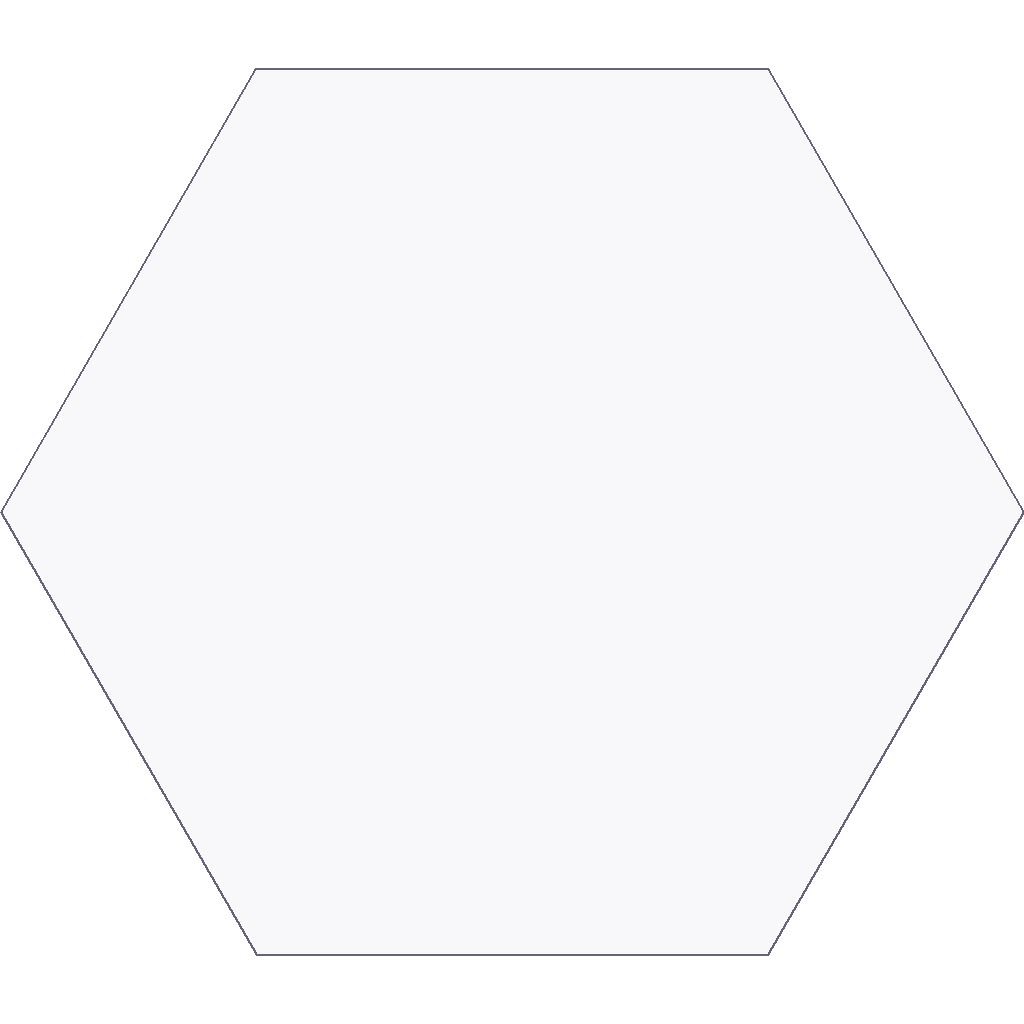
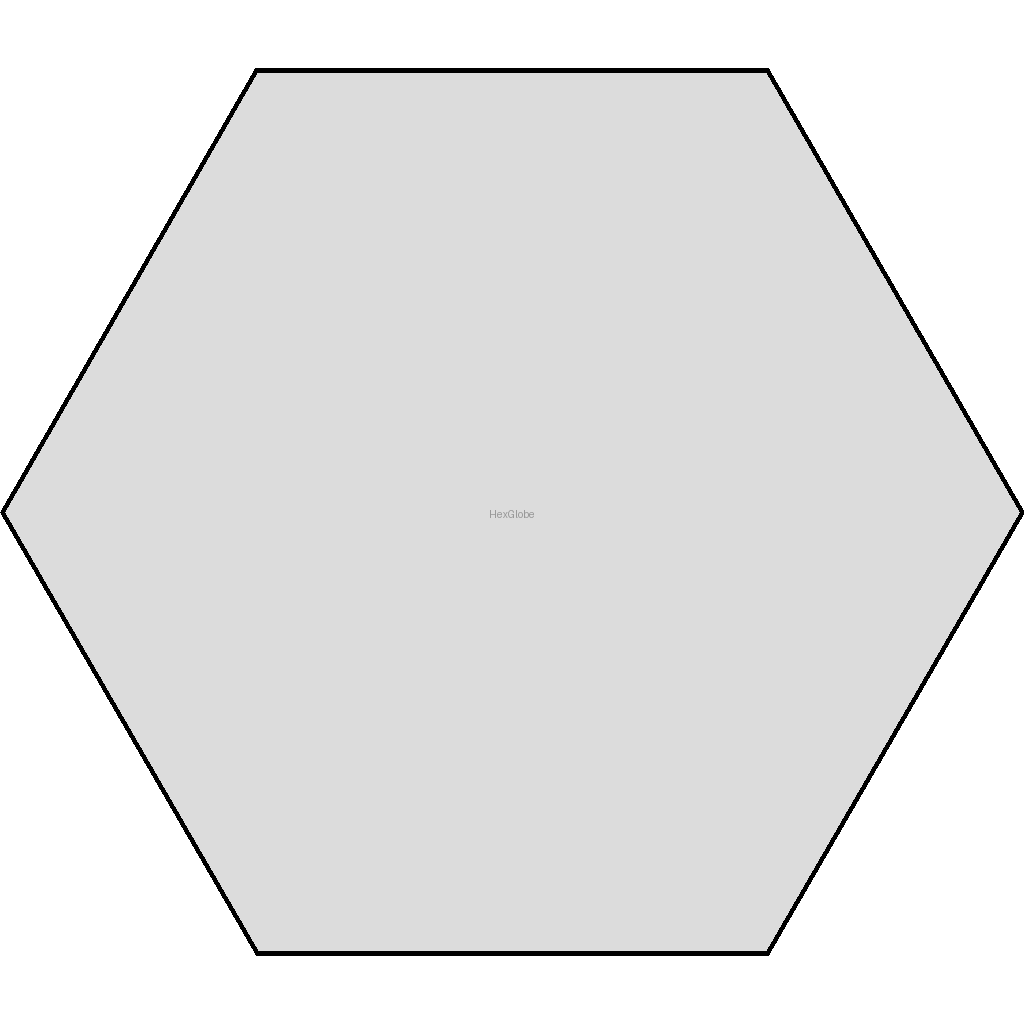
Add HexGlobe text to hexagon background and create hex_map_placeholder.png

diff --git a/frontend/assets/generate_hex_background.py b/frontend/assets/generate_hex_background.py
@@ -7,10 +7,10 @@ making the hexagon as large as possible with transparent background.
 
 import os
 import math
-from PIL import Image, ImageDraw
+from PIL import Image, ImageDraw, ImageFont
 
 def generate_hex_background(output_path, size=1024, border_width=2, border_color=(50, 50, 50, 255), 
-                           fill_color=(255, 255, 255, 255)):
+                           fill_color=(255, 255, 255, 255), add_text=True, text_color=(200, 200, 200, 128)):
     """
     Generate a flat-bottom hexagon background image.
     
@@ -20,6 +20,8 @@ def generate_hex_background(output_path, size=1024, border_width=2, border_color
         border_width: Width of the hexagon border in pixels
         border_color: RGBA color tuple for the border
         fill_color: RGBA color tuple for the hexagon fill
+        add_text: Whether to add the "HexGlobe" text in the center
+        text_color: RGBA color tuple for the text (faint grey by default)
     """
     # Create a transparent image
     img = Image.new('RGBA', (size, size), (0, 0, 0, 0))
@@ -57,6 +59,30 @@ def generate_hex_background(output_path, size=1024, border_width=2, border_color
     else:
         draw.polygon(points, fill=fill_color)
     
+    # Add "HexGlobe" text in the center if requested
+    if add_text:
+        try:
+            # Try to load a system font
+            font_size = int(size / 10)  # Adjust font size based on image size
+            try:
+                font = ImageFont.truetype("Arial", font_size)
+            except IOError:
+                # Fallback to default font if Arial is not available
+                font = ImageFont.load_default()
+                font_size = int(size / 15)  # Default font might be smaller
+                
+            text = "HexGlobe"
+            # Get text size to center it properly
+            text_bbox = draw.textbbox((0, 0), text, font=font)
+            text_width = text_bbox[2] - text_bbox[0]
+            text_height = text_bbox[3] - text_bbox[1]
+            
+            # Draw the text in the center
+            text_position = (center_x - text_width / 2, center_y - text_height / 2)
+            draw.text(text_position, text, font=font, fill=text_color)
+        except Exception as e:
+            print(f"Warning: Could not add text: {e}")
+    
     # Ensure the directory exists
     os.makedirs(os.path.dirname(output_path), exist_ok=True)
     
@@ -69,16 +95,15 @@ def generate_hex_background(output_path, size=1024, border_width=2, border_color
 if __name__ == "__main__":
     # Create the assets directory if it doesn't exist
     output_dir = os.path.dirname(os.path.abspath(__file__))
-    output_path = os.path.join(output_dir, "hex_background.png")
-    
-    # Generate the default hexagon background
-    generate_hex_background(output_path)
-    
-    # Generate a subtle version with custom properties
-    subtle_path = os.path.join(output_dir, "subtle_hex_background.png")
+
+    # Generate a version with black border, light grey fill, and darker text
+    custom_path = os.path.join(output_dir, "hex_map_placeholder.png")
+    light_grey = (220, 220, 220, 255)  # Light grey fill
+    darker_text = (150, 150, 150, 255)  # Darker text color
     generate_hex_background(
-        subtle_path, 
-        border_width=2, 
-        border_color=(100, 100, 120, 255),
-        fill_color=(245, 245, 250, 180)  # Semi-transparent fill
+        custom_path,
+        border_width=5,
+        border_color=(0, 0, 0, 255),  # Black border
+        fill_color=light_grey,
+        text_color=darker_text
     )
